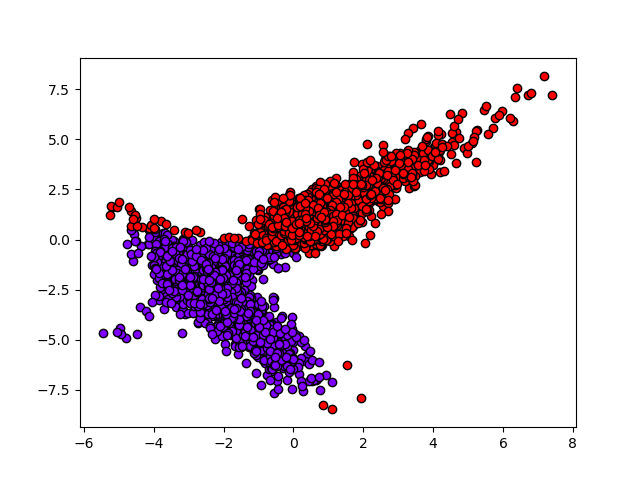
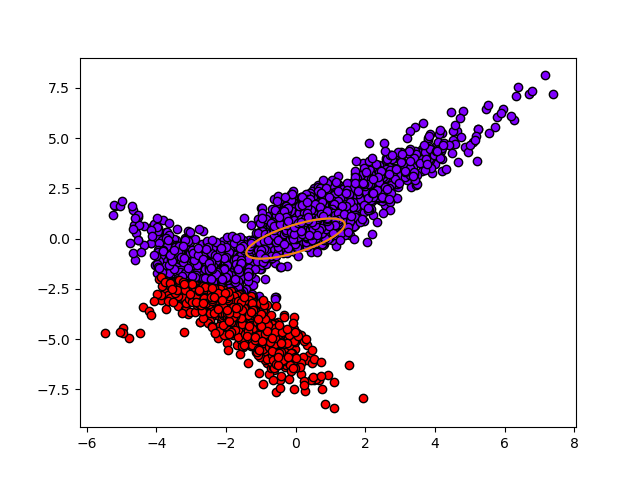
further changes, plotting almost ready

diff --git a/Solutions/Homework5/ExpectationMaximization.py b/Solutions/Homework5/ExpectationMaximization.py
@@ -1,6 +1,6 @@
 from Parser import parse_data
 import numpy as np
-from Helpers import save_plot
+from Helpers import save_plot, plot_covariance
 from random import random
 import matplotlib.pyplot as plt
 import matplotlib.cm as cm
@@ -159,6 +159,7 @@ if PLOT_MEAN_FOR_CLUSTERS_COUNT:
 
 if PLOT_CLUSTERING_FOR_SOME_K:
     plot_for_k_s = [2,3,5,6]
+    # plot_for_k_s = [2]
 
     for k in plot_for_k_s:
         em.cluster(data, k)
@@ -172,6 +173,10 @@ if PLOT_CLUSTERING_FOR_SOME_K:
             x, y = zip(*X)
             # ax1.figure(figsize=(15, 10))
             ax1.scatter(x, y, edgecolors="black", c=colors[cl_idx])
+
+            center = em.cluster_centers[cl_idx]
+            covariance = em.covariances_per_cluster[cl_idx]
+            plot_covariance(ax1, center[0], center[1], covariance)
 
         if SAVE_PLOTS:
             save_plot(fig, './plots/plot_for_k_{}.png'.format(k))

diff --git a/Solutions/Homework5/Helpers.py b/Solutions/Homework5/Helpers.py
@@ -1,5 +1,24 @@
 import os
+import pandas as pd
+from numpy import pi, sin, cos
+import numpy as np
+import matplotlib.pyplot as plt
 
 
 def save_plot(fig, path):
     fig.savefig(os.path.join(os.path.dirname(__file__), path))
+
+
+def plot_covariance(ax1, x_initial, y_initial, cov):
+    num_points = 1000
+    radius = 1.5
+
+    arcs = np.linspace(0, 2 * pi, num_points)
+    x = radius * sin(arcs) + x_initial
+    y = radius * cos(arcs) + y_initial
+
+    # TODO: save covariance and inverted covariance matrix separately
+    xy = np.array(list(zip(x, y)))
+    x, y = zip(*xy.dot(np.linalg.pinv(cov)))
+
+    ax1.plot(x, y)
